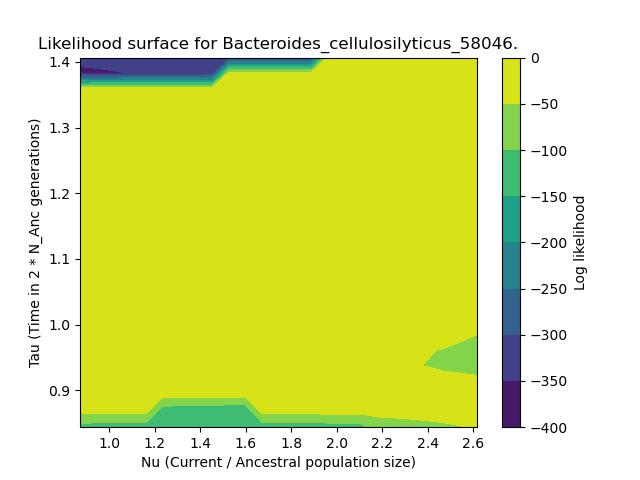
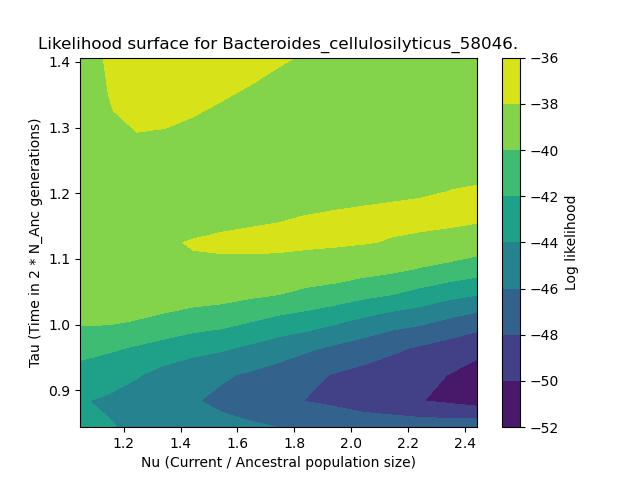
B.cell

diff --git a/Scripts/plot_likelihood.py b/Scripts/plot_likelihood.py
@@ -464,9 +464,9 @@ class PlotLikelihood():
                 x = input_nu  # Initial x value
                 y = input_tau  # Initial y value
 
-                npts = 25
+                npts = 15
 
-                x_range = numpy.linspace(x * 0.5, x * 1.5, npts)
+                x_range = numpy.linspace(x * 0.6, x * 1.4, npts)
                 # x_range = numpy.linspace(1.6, 2.4, npts)
                 y_range = numpy.linspace(y * 0.75, y * 1.25, npts)
                 # y_range = numpy.linspace(0.98, 1.04, npts)
